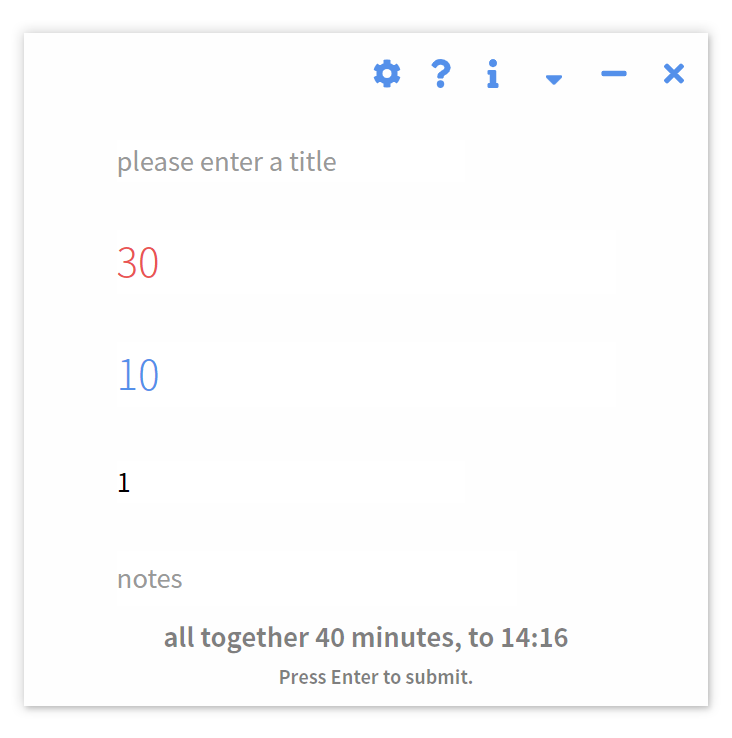
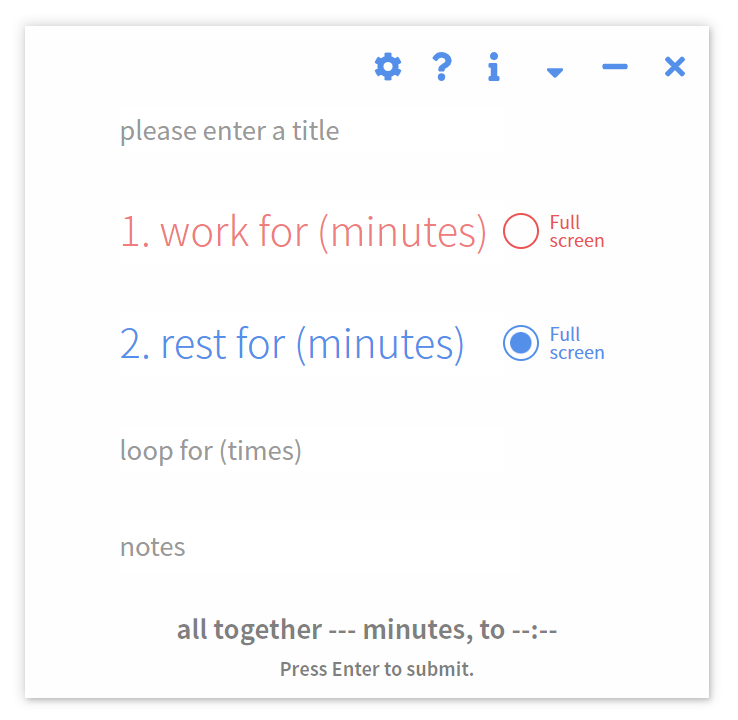
optimized

diff --git a/index.html b/index.html
@@ -69,26 +69,34 @@
         <div id="tip" class="extreme-small font-weight-bold text-black-50">
             <script>document.write(i18n.__('tip'));</script>
         </div>
-        <div id="set" class="justify-content-center">
-            <form action="timer.html" method="GET">
+        <div id="set" class="container-fluid">
+            <form action="timer.html" method="GET" class="justify-content-center align-content-center">
                 <input name="title" id="title" type="text" class="small" maxlength="11" /><br /><br />
-                <input name="work-time" id="work-time" type="number" onkeyup="allset()"
-                    oninput="if (value.length > 4) value = value.slice(0, 4)" style="ime-mode:Disabled"
-                    class="work lead" autofocus required /><input id="focus-work-set" class="focuscheck" type="checkbox"
-                    onchange="focusworkset()" /><span class="focuser extreme-small work">
-                    <script>document.write(i18n.__('focusmode1') + "<br />" + i18n.__('focusmode2'))</script></span>
-                </a><br /><br />
-                <input name="rest-time" id="rest-time" type="number" onkeyup="allset()"
-                    oninput="if (value.length > 4) value = value.slice(0, 4)" style="ime-mode:Disabled"
-                    class="rest lead" required /><input id="focus-rest-set" class="focuscheck" type="checkbox"
-                    onchange="fullscreenset()" /><span class="focuser extreme-small rest">
-                    <script>document.write(i18n.__('focusmode1') + "<br />" + i18n.__('focusmode2'))</script>
-                </span><br /><br />
+                <div class="align-content-center">
+                    <input name="work-time" id="work-time" type="number" onkeyup="allset()"
+                        oninput="if (value.length > 4) value = value.slice(0, 4)" style="ime-mode:Disabled"
+                        class="work lead" autofocus required /><input id="focus-work-set" type="checkbox"
+                        onchange="focusworkset()" /><span class="focuser extreme-small work">
+                        <script>document.write(i18n.__('focusmode1') + "<br />" + i18n.__('focusmode2'))</script></span>
+
+                </div>
+                <br />
+                <div class="align-content-center">
+                    <input name="rest-time" id="rest-time" type="number" onkeyup="allset()"
+                        oninput="if (value.length > 4) value = value.slice(0, 4)" style="ime-mode:Disabled"
+                        class="rest lead" required /><input id="focus-rest-set" type="checkbox"
+                        onchange="fullscreenset()" /><span class="focuser extreme-small rest">
+                        <script>document.write(i18n.__('focusmode1') + "<br />" + i18n.__('focusmode2'))</script>
+                    </span>
+                </div>
+                <br />
                 <input name="loop" id="loop" type="number" onkeyup="allset()"
                     oninput="if (value.length > 3) value = value.slice(0, 3)" style="ime-mode:Disabled" class="small"
-                    required /><br /><br />
+                    required />
+                <br /><br />
                 <!-- control that only numbers are OK -->
                 <input name="note" id="note" type="text" class="small" maxlength="39" />
+                <br /><br />
             </form>
             <script>
                 $('#work-time').attr('placeholder', i18n.__('worktime'));

diff --git a/docs/bangzhu.html b/docs/bangzhu.html
@@ -46,7 +46,8 @@
                     class="img-fluid" /><br />
                 打开wnr后，你就会看到这样的界面。<br />
                 先是一段工作时间，然后是一段休息时间。<br />
-                你可以设定循环的次数。<br />
+                你可以设定是否需要全屏模式来帮助你专心。<br />
+                可以设定循环的次数。<br />
                 还可以设定任务名称，以及添加备注。<br />
                 你还可以很方便地查看总时间。<br />
                 <img src="https://raw.githubusercontent.com/RoderickQiu/wnr/master/res/preview/preview-7.png"
@@ -55,14 +56,13 @@
                 如果需要使用电脑，则你可以将wnr最小化或隐藏到托盘菜单。<br />
                 在特殊情况下，你可以暂停、跳过或是放弃计时。<br />
                 最底部的进度条可以告诉你还剩下多少时间。<br />
-                还剩下一分钟时，你会收到一个通知提醒。
+                还剩下一分钟时，你会收到一个通知提醒。<br />
                 <img src="https://raw.githubusercontent.com/RoderickQiu/wnr/master/res/preview/preview-8.png"
                     class="img-fluid" /><br />
                 当时间结束时，我们会提醒你。<br />
                 <img src="https://raw.githubusercontent.com/RoderickQiu/wnr/master/res/preview/preview-9.png"
                     class="img-fluid" /><br />
                 然后就是下一段时间了。<br />
-                如果担心被电脑干扰，你可以开启全屏专心模式。
                 <br />
                 <img src="https://raw.githubusercontent.com/RoderickQiu/wnr/master/res/preview/preview-10.png"
                     class="img-fluid" /><br />

diff --git a/docs/help.html b/docs/help.html
@@ -49,6 +49,7 @@
                 It will repeat for the time you entered in "loop for". <br />
                 Title and notes are selective.<br />
                 You can also see how many time in total this schedule is going to cost.<br />
+                (You can have your time with wnr <b>full-screen</b> to prevent you from using you computer, too.)<br />
                 <img src="https://raw.githubusercontent.com/RoderickQiu/wnr/master/res/preview/preview-2.png"
                     class="img-fluid" /><br />
                 As the key <kbd>Enter</kbd> is clicked, the timer starts. Now, go & do your work! <br />
@@ -62,7 +63,6 @@
                 <img src="https://raw.githubusercontent.com/RoderickQiu/wnr/master/res/preview/preview-4.png"
                     class="img-fluid" /><br />
                 And another period of time starts. <br />
-                (You can have a rest time with wnr <b>full-screen</b> to prevent you from using you computer, too.)
                 <br />
                 <img src="https://raw.githubusercontent.com/RoderickQiu/wnr/master/res/preview/preview-5.png"
                     class="img-fluid" /><br />

diff --git a/style.css b/style.css
@@ -29,6 +29,10 @@ input, .focuser {
     border: none;
 }
 
+input {
+    width: 192px;
+}
+
 input::-webkit-outer-spin-button, input::-webkit-inner-spin-button {
     -webkit-appearance: none;
 }
@@ -130,25 +134,17 @@ li {
     text-align: center;
 }
 
-.focuscheck {
-    -webkit-appearance: none;
-    /* remove default style */
-    border: solid #5490ea 1.2px;
-    border-radius: 15px;
+#focus-work-set, #focus-rest-set {
+    border-width: 1px;
     width: 18px;
     height: 18px;
 }
 
-.focuscheck:checked {
-    background-image: url(./res/icons/check.png);
-    background-size: contain;
-}
-
-#focus-work-set{
+#focus-work-set {
     border-color: #ea5454;
 }
 
-#focus-work-set:checked{
+#focus-work-set:checked {
     background-image: url(./res/icons/check-work.png);
 }
 

diff --git a/settings.html b/settings.html
@@ -249,12 +249,6 @@
                     })
             }
         }
-        if (store.get("fullscreen") == true) document.getElementById("fullscreen-set").checked = true;
-        else document.getElementById("fullscreen-set").checked = false;
-        function fullscreenset() {
-            if (document.getElementById("fullscreen-set").checked == true) store.set("fullscreen", true);
-            else store.set("fullscreen", false);
-        }
         if (store.get("autocheck") != false) document.getElementById("autocheck-set").checked = true;
         else document.getElementById("autocheck-set").checked = false;
         function autocheckset() {
